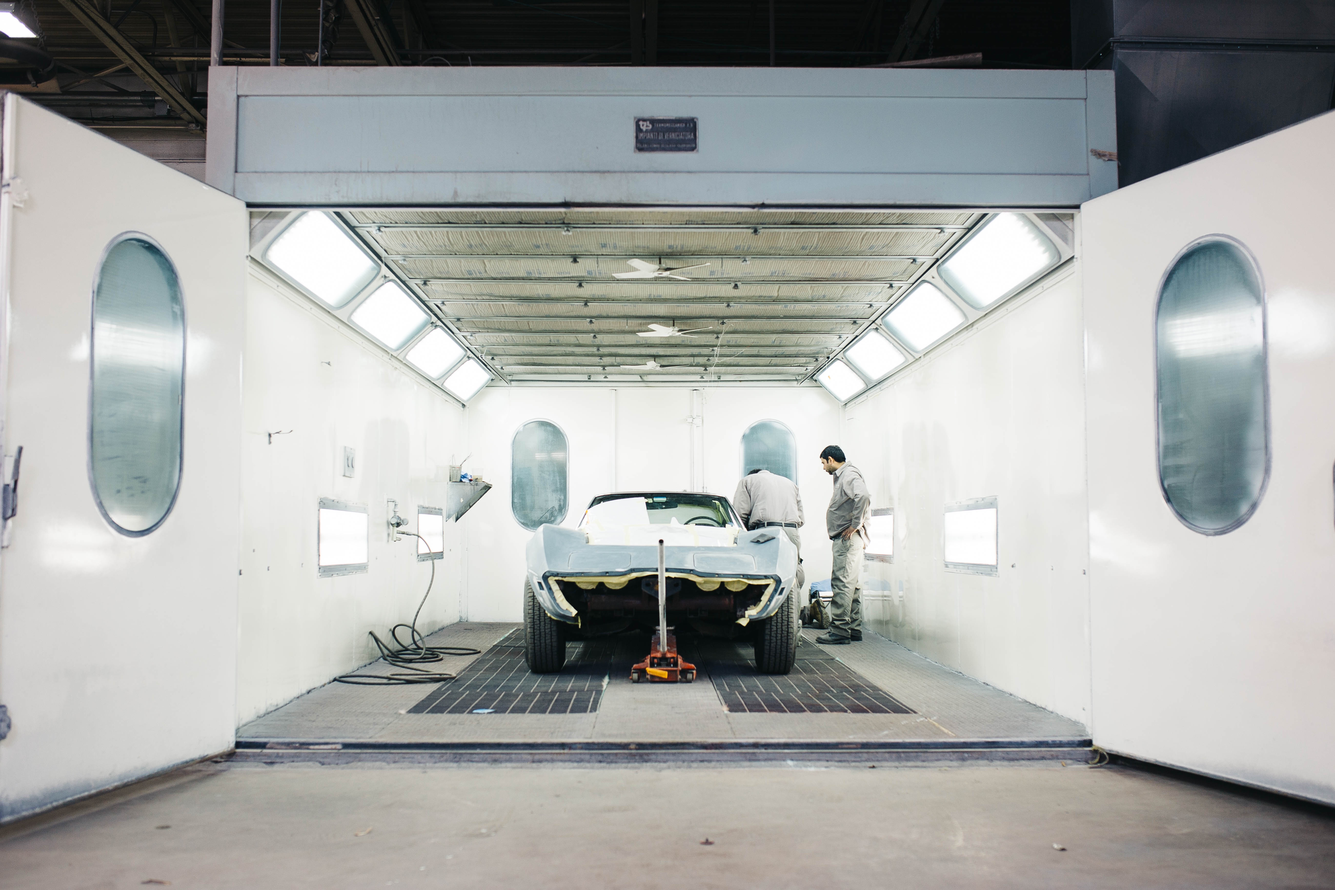
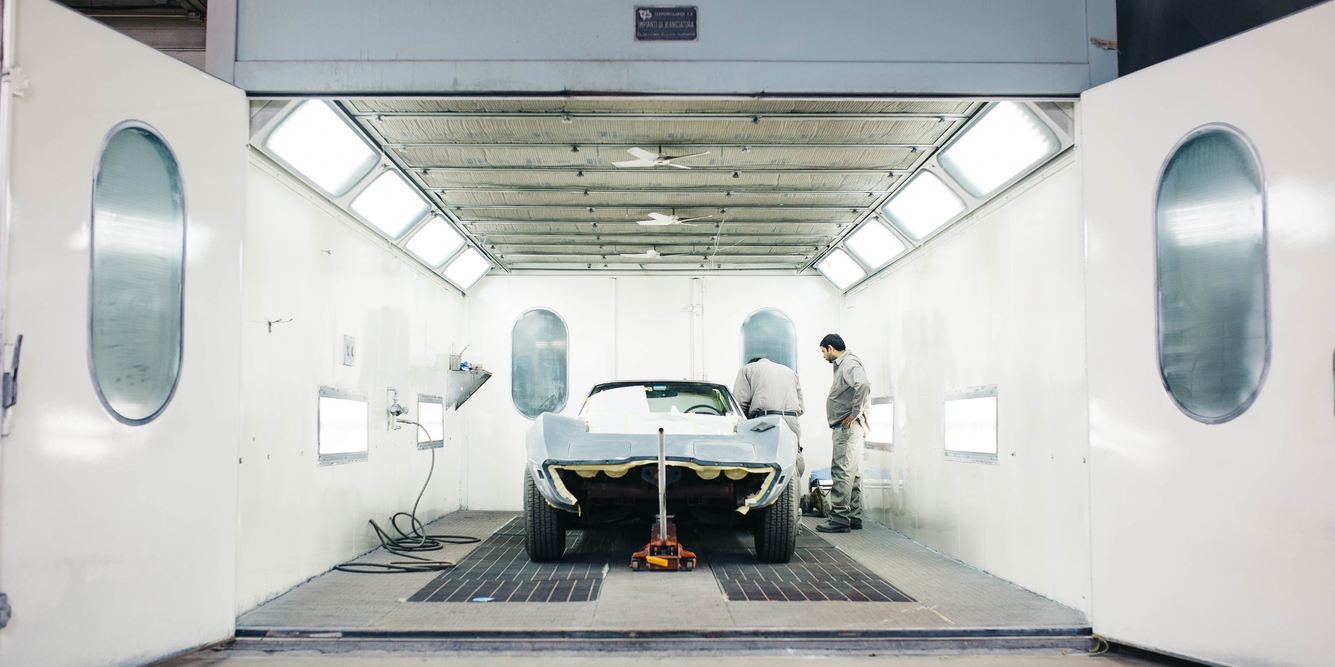
(blog)Publish blog post about Free Friday

diff --git a/_sass/_post.scss b/_sass/_post.scss
@@ -63,8 +63,8 @@
     text-align: justify;
 }
 .blog-post p img {
-    max-width: 800px;
-    width: 100%;
+    max-width: 100%;
+    width: auto;
 }
 .blog-post p a {
     color: #13a5ad;

diff --git a/_posts/2017-06-28-free-friday.md b/_posts/2017-06-28-free-friday.md
@@ -4,7 +4,9 @@ author: borsi
 image: '/img/posts/team-work.jpg'
 tags: [community, developers, communication, company culture, freefriday]
 ---
+
 In their [2004 IPO letter][64bbc0a2], founders Larry Page and Sergey Brin highlighted their idea of the famous "Google 20%". A lot of time has passed since then and the legend faded too: is it really 20% of their time, or is it more like "Google 120%"?
+
 ---
 
 [64bbc0a2]: https://abc.xyz/investor/founders-letters/2004/ipo-letter.html "Google IPO letter"
@@ -32,7 +34,7 @@ This all comes down to communication. As a small company, communication _should_
 ### Fading Motivation
 
 Working on repetitive business solutions can become demotivating after a while. Software development supposed to be a _creative_ craft, so solving client problems day after day can make Jack a dull boy.
-![All work and no play makes Jaca dyll boy](../img/all_work_and_no_play.png)
+![All work and no play makes Jaca dyll boy](/img/posts/all_work_and_no_play.png)
 
 ### No Empowerment
 
